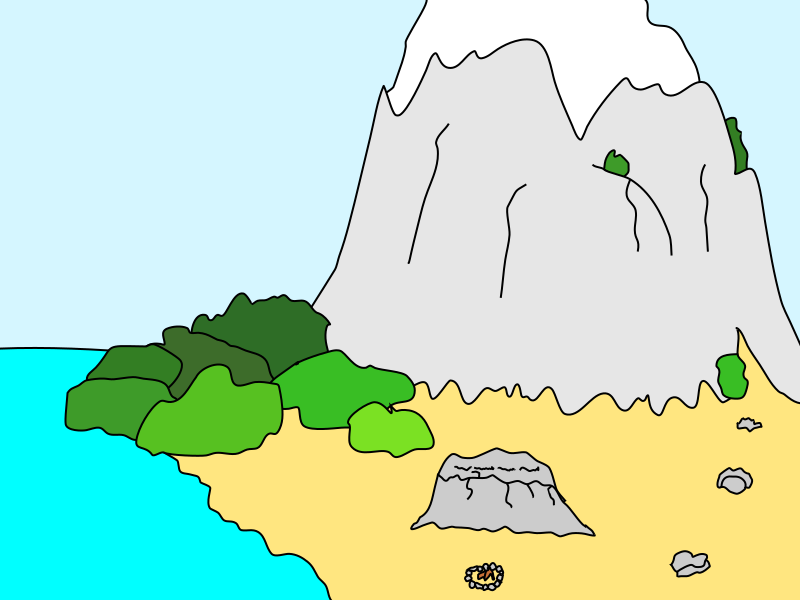
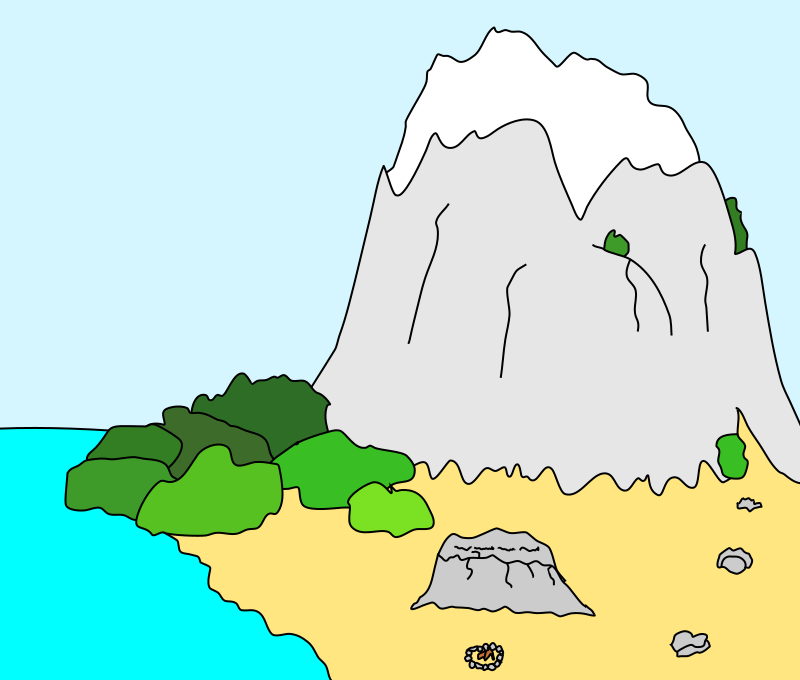
Add an ending!

diff --git a/mufl/island.py b/mufl/island.py
@@ -5,6 +5,7 @@ from math import tau
 from random import uniform
 
 from wasabi2d import clock
+import numpy
 
 from .info import COLORS as BONUS_COLORS
 from .common import add_key_icon, add_space_instruction, KEY_NUMBERS, change_sprite_image, THAT_BLUE
@@ -13,6 +14,8 @@ from .thing import get_thing_sprite_info
 
 def add_rect_with_topleft_anchor(layer, x, y, w, h, **kwargs):
     return layer.add_rect(w, h, pos=(x+w/2, y+h/2), **kwargs)
+
+FIRE_POS = 484, 570
 
 
 @dataclass
@@ -50,7 +53,9 @@ class Island:
         self.main_layer = self.textbg_layer = self.game.scene.layers[10]
         self.top_layer = self.text_layer = self.game.scene.layers[11]
 
-        self.backdrop_layer.add_sprite('island', anchor_x=0, anchor_y=0)
+        self.input_frozen = False
+
+        self.backdrop_layer.add_sprite('island', anchor_x=0, anchor_y=80)
 
         self.last_selected = None
 
@@ -108,14 +113,13 @@ class Island:
             size=8,
         )
 
-        fire_pos = 484, 570
         self.flames = []
         for i in range(4):
-            s = self.effect_layer.add_sprite('flame', pos=fire_pos, scale=1/3, anchor_y=48, color=(1, 0, 0, .4))
+            s = self.effect_layer.add_sprite('flame', pos=FIRE_POS, scale=1/3, anchor_y=48, color=(1, 0, 0, .4))
             if i % 2:
                 s.scale_x = -1
             self.flames.append(s)
-            clock.coro.run(self.anim_flame(s, i, *fire_pos))
+            clock.coro.run(self.anim_flame(s, i, *FIRE_POS))
 
         pg = self.effect_layer.add_particle_group(
             'blur_circle', grow=1.0, max_age=3.2, spin_drag=1.1, gravity=-4,
@@ -126,11 +130,16 @@ class Island:
         pg.add_color_stop(3.2, (.5, .5, .5, 0))
         self.hypno_emitters = []
         em = pg.add_emitter(
-            rate=20, pos=fire_pos, pos_spread=(2, 2), vel=(2, -8),
+            rate=20, pos=FIRE_POS, pos_spread=(2, 2), vel=(2, -8),
             vel_spread=(4, 0.1), size=1.2, size_spread=0.1, spin_spread=tau,
         )
         self.hypno_emitter = em
 
+        self.shade_layer.add_rect(
+            self.game.scene.width, self.game.scene.height*2+2,
+            pos=(self.game.scene.width//2, -self.game.scene.height),
+            color=(1, 1, 1, 1),
+        )
         self.shadow_sprite = self.shade_layer.add_sprite(
             'island_shadow',
             pos=(self.game.scene.width//2, self.game.scene.height//2),
@@ -162,6 +171,8 @@ class Island:
         self.reset_display()
 
     def on_key_down(self, key):
+        if self.input_frozen:
+            return
         if key == key.ESCAPE:
             if self.last_selected is None:
                 exit()
@@ -326,3 +337,103 @@ class Island:
             self.shadow_sprite.color = 1, 1, 1, 0
             space_label.color = (*THAT_BLUE, space_label.color[-1])
         self.last_message = things
+
+    def fire_missile(self):
+        self.deselect()
+        self.game.info.magic -= 30
+        scene = self.game.scene
+        chain = scene.chain
+        camera = scene.camera
+        prev_pos = camera.pos
+        mask_fill = self.game.set_missile_chain()
+        clock.schedule(
+            lambda: animate(mask_fill, color=(1, 1, 1, 0), duration=2, tween='accelerate'),
+            2,
+            strong=True,
+        )
+        async def anim():
+            self.input_frozen = True
+            try:
+                missile_layer = scene.layers[1]
+                sparks_layer = scene.layers[2]
+                sprite = missile_layer.add_sprite(
+                    'blur_circle',
+                    pos=FIRE_POS,
+                    scale=1/6,
+                )
+                pg = sparks_layer.add_particle_group(
+                    'magic_particle', grow=0.9, max_age=3, spin_drag=1.1,
+                    gravity=numpy.array([0, -4]),
+                )
+                pg.add_color_stop(0, (1, 1, 1))
+                pg.add_color_stop(0.2, (0, 1, 1))
+                pg.add_color_stop(1, (1, 0, 1))
+                pg.add_color_stop(2, (1, 1, 0, 1))
+                pg.add_color_stop(3, (1, 1, 0, 0))
+                em = pg.add_emitter(
+                    rate=50, pos=FIRE_POS, pos_spread=(3, 3), vel=(0, 0),
+                    emit_angle_spread=tau,
+                    vel_spread=(16, 16), size=15, size_spread=5,
+                    spin_spread=tau/4,
+                )
+
+                duration = 8
+                async for t in clock.coro.frames(seconds=duration):
+                    print(t)
+                    t /= duration
+                    anit = t * t
+                    camera.pos = scene.width/2, scene.height/2 - anit * scene.height*2
+                    sprite.pos = em.pos = FIRE_POS[0], FIRE_POS[1] - anit * (scene.height*2 + 400)
+                    em.vel = 0, -t * 400
+                    em.rate = max(0, (.7 - t) * 50)
+                em.vel = 0, 0
+                pg.gravity = numpy.array([0, 200])
+                pg.emit(
+                    400, pos=em.pos, vel=(0, 0), vel_spread=(300, 300),
+                    spin_spread=tau/4,
+                    angle_spread=tau, size=20, size_spread=10,
+                )
+                sparks_layer.set_effect('trails', fade=0.5)
+                await animate(sprite, scale=3, color=(1, 1, 1, 0), duration=2, tween='decelerate')
+                await clock.coro.sleep(4)
+                cam_x, cam_y = camera.pos
+                if self.game.info.message_assembled:
+                    for i, line in enumerate((
+                        "The explosion, combined with your message,",
+                        "got the attention of a broom-mounted,",
+                        "teleport-savvy savior.",
+                        "You made it out alive and well – just with",
+                        "a lifetime ban on any more magic parties.",
+                    )):
+                        l = missile_layer.add_label(
+                            line,
+                            font='kufam_medium',
+                            align='center',
+                            pos=(cam_x, cam_y + i * 32),
+                            color=(1, 1, 1, 0),
+                            fontsize=15,
+                        )
+                        animate(l, color=(1, 1, 1, 1))
+                    l = missile_layer.add_label(
+                        'Congratulations!',
+                        font='kufam_medium',
+                        align='center',
+                        pos=(cam_x, cam_y - 64),
+                        color=(1, 1, 1, 1),
+                        fontsize=50,
+                    )
+                    animate(l, color=(1, 1, 1, 1))
+                    await clock.coro.sleep(3600)
+                duration = 2
+                async for t in clock.coro.frames(seconds=duration):
+                    t /= duration
+                    camera.pos = scene.width/2, scene.height/2 - (1-t) * scene.height*2
+                await animate(mask_fill, color=(1, 1, 1, 1), duration=.2, tween='accelerate')
+                sparks_layer.clear_effect()
+            finally:
+                scene.chain = chain
+                camera.pos = prev_pos
+                del scene.layers[1]
+                del scene.layers[2]
+                self.input_frozen = False
+        clock.coro.run(anim())

diff --git a/mufl/game.py b/mufl/game.py
@@ -18,6 +18,7 @@ class Game:
         self.fade_layer = self.scene.layers[30]
         self.info_layer1 = self.scene.layers[31]
         self.info_layer2 = self.scene.layers[32]
+        self.missile_mask = self.scene.layers[40]
 
         self.action_layers = chain.LayerRange(stop=5)
         self.fade_layers = chain.Layers([30])
@@ -56,8 +57,29 @@ class Game:
 
         self.return_to_island()
 
+    def set_missile_chain(self):
+        fill = chain.Fill((0, 0, 0, 1))
+        self.scene.chain = [
+            chain.Fill((0.835, 0.964, 1, 1)),
+            chain.Layers([6]),
+            chain.Mask(
+                paint=chain.Fill((0, 0, .2, .5)),
+                mask=chain.Layers([7]),
+                function='inside',
+            ),
+            chain.Mask(
+                paint=[chain.LayerRange(start=8, stop=11), self.info_node],
+                mask=fill,
+            ),
+            chain.Layers([1, 2]),
+        ]
+        return fill
+
     def go_do(self, idx):
         self.info.food -= 1
+        if idx == 4 and self.info.message_assembled:
+            self.island.fire_missile()
+            return
         self.activity = None
         for i in range(5):
             self.scene.layers.pop(i, None)
@@ -79,6 +101,8 @@ class Game:
                 self.go_burrow()
             elif idx == 3:
                 self.go_shadow()
+            elif idx == 4:
+                pass
             else:
                 await black
                 print('ERROR, unknown action')

diff --git a/mufl/burrow.py b/mufl/burrow.py
@@ -368,6 +368,7 @@ class Burrowing:
         message1, sep, message2 = message.partition('\n')
         label = self.selcard_layer.add_label(
             message1,
+            font='kufam_medium',
             color=(*THAT_BLUE, 0),
             pos=(self.game.scene.width//2, selected_pos(0)[1]+16),
             align='center',
@@ -376,6 +377,7 @@ class Burrowing:
         animate(label, color=(*THAT_BLUE, 1))
         label = self.selcard_layer.add_label(
             message2,
+            font='kufam_medium',
             color=(*THAT_BLUE, 0),
             pos=(self.game.scene.width//2, selected_pos(0)[1]+64),
             align='center',

diff --git a/mufl/main.py b/mufl/main.py
@@ -19,10 +19,10 @@ game.info.add_thing('L8L0:OOL003O<00COL0000000:H')
 game.info.add_thing('OE@@:OOOONO9I9IO0000I0000:e')
 game.info.add_thing('LDL0:OON00O7O00KOM0000000:o')
 game.info.display[:] = 6, 7, 1, 5
-game.info.food = game.info.magic = game.info.cube = 5
+game.info.food = game.info.magic = game.info.cube = 50
 game.island.reset()
-#game.island.on_key_down(keys.KP4)
-#game.island.on_key_down(keys.SPACE)
+game.island.on_key_down(keys.KP5)
+game.island.on_key_down(keys.SPACE)
 
 def coalesce_key(key):
     if key in (keys.RETURN, keys.KP_ENTER):

diff --git a/mufl/info.py b/mufl/info.py
@@ -160,6 +160,15 @@ class Info:
                 pass
         clock.coro.run(animit())
 
+    @property
+    def message_assembled(self):
+        for i, want in zip(self.display, 'HELP'):
+            if i is None:
+                return False
+            code1, code2, label = self.things[i].split(':')
+            if label.upper() != want:
+                return False
+        return True
 
 @dataclass
 class InfoNode(ChainNode):

diff --git a/mksprite.py b/mksprite.py
@@ -30,6 +30,7 @@ mksprite(2, 1, 0.5, 0.5, 'magic')
 mksprite(2.5, 1, 0.5, 0.5, 'cube')
 mksprite(3, 1, 0.5, 0.5, 'nada')
 mksprite(3.5, 1, 0.5, 0.5, 'thing')
+mksprite(4, 1, 1, 1, 'magic_particle')
 mksprite(7, 1, 1, 1, 'flame')
 
 mksprite(5, 1, 2, 2, 'hypno')
